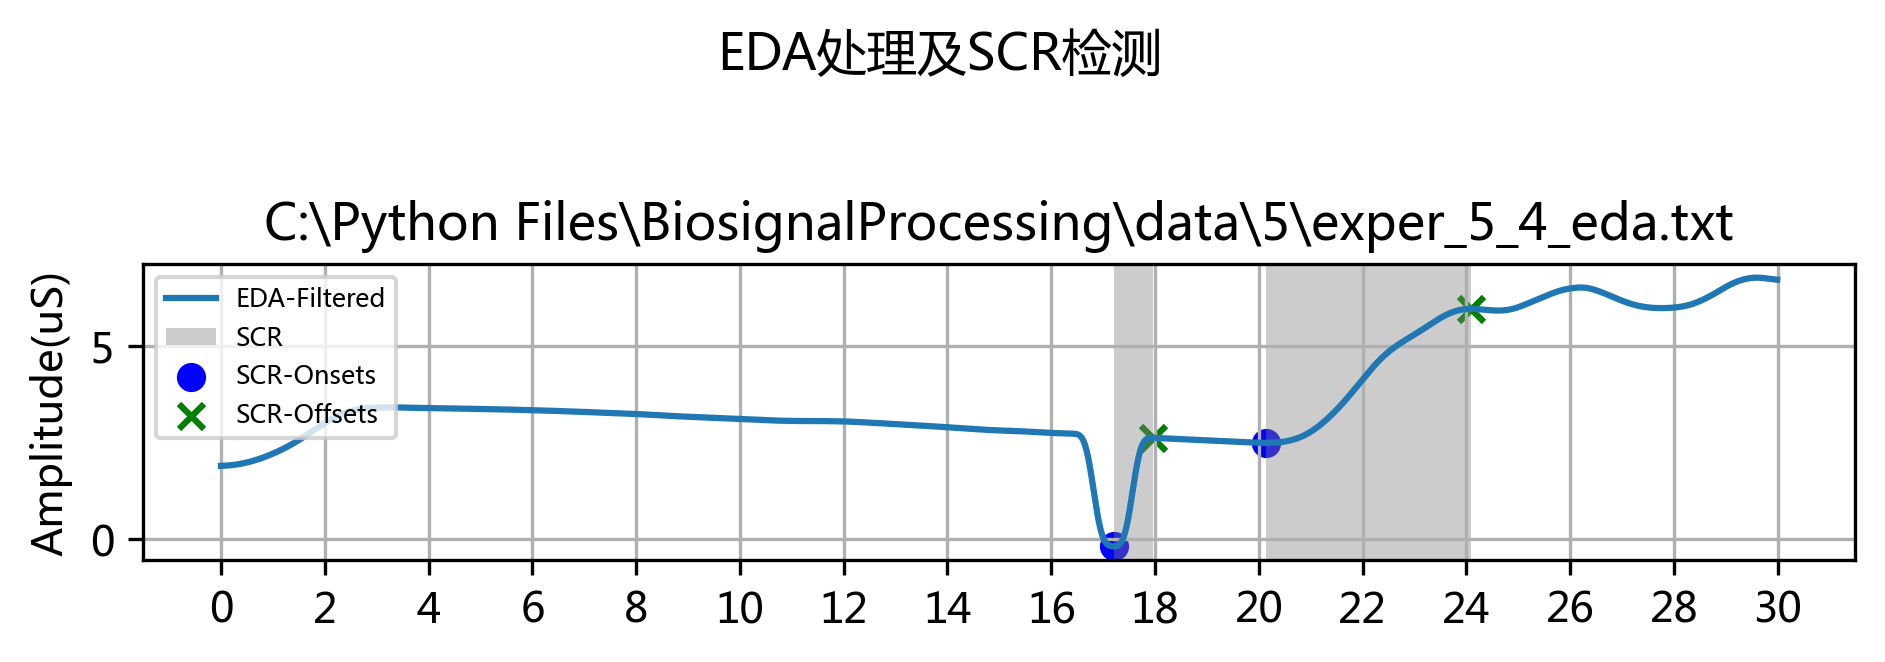
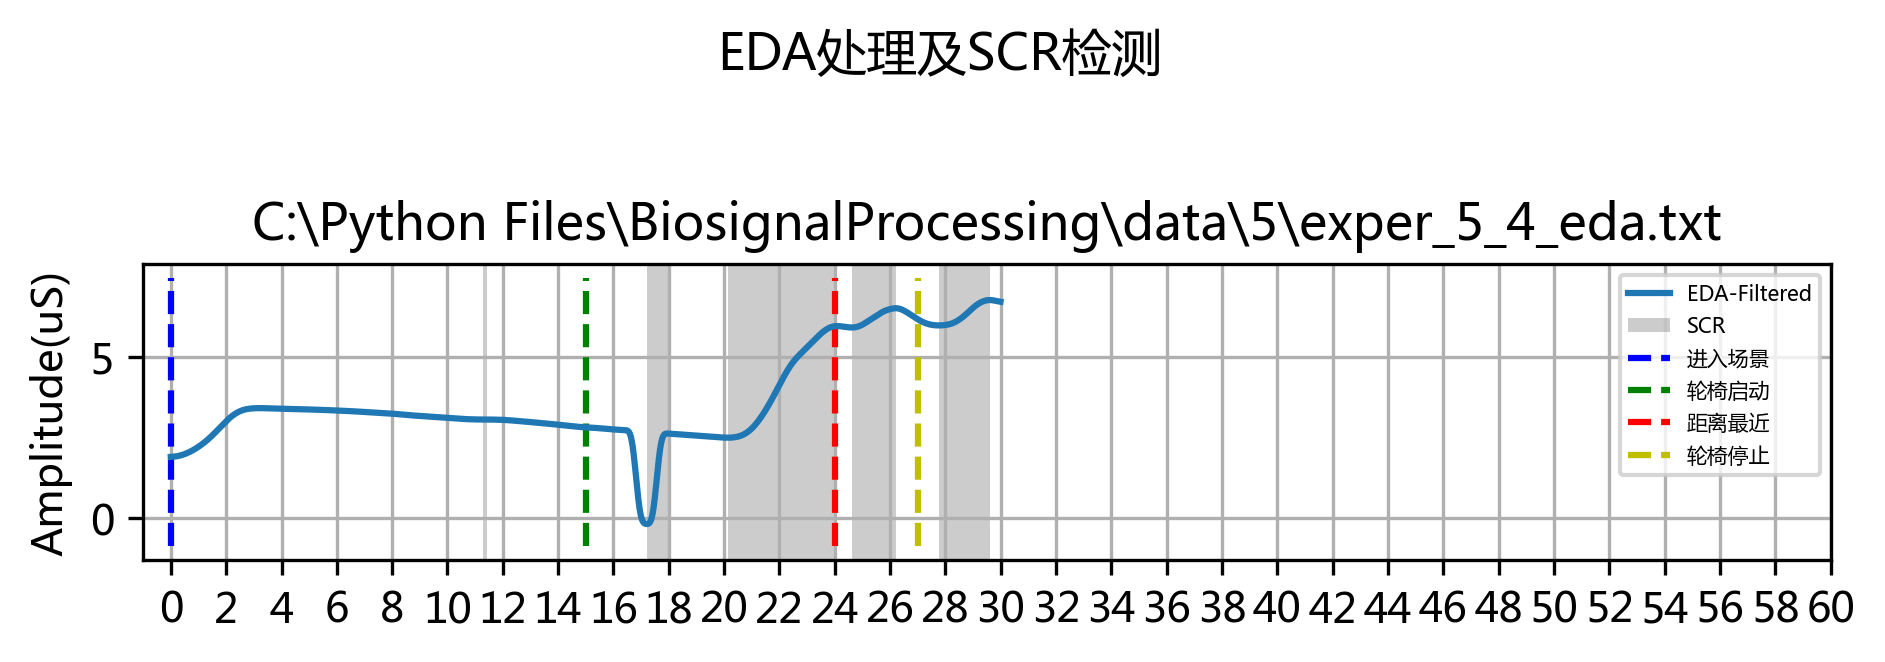
11-27日提交

Changed region(s): [[0.0308, 0.3021, 0.9846, 0.9668]]

diff --git a/eda.py b/eda.py
@@ -302,14 +302,14 @@ def plot_scr_v2(ts: ndarray = None,
     ax1.vlines(ts[0], ymin, ymax, color='b', linestyles="--", linewidth=MINOR_LW, label='进入场景')
     ax1.vlines(ts[15 * sampling_rate], ymin, ymax, color='g', linestyles="--", linewidth=MINOR_LW, label='轮椅启动')
     obs_distance_time = [45, 30, 26, 24]  # 距离障碍物最近时的时间点
-    ax1.vlines(ts[obs_distance_time[exper-1] * sampling_rate], ymin, ymax, color='r', linestyles="--",
+    ax1.vlines(ts[obs_distance_time[exper - 1] * sampling_rate], ymin, ymax, color='r', linestyles="--",
                linewidth=MINOR_LW, label='距离最近')
     wheelchair_stop_time = [55, 36, 30, 27]
     ax1.vlines(ts[wheelchair_stop_time[exper - 1] * sampling_rate], ymin, ymax, color='y', linestyles="--",
                linewidth=MINOR_LW, label='轮椅停止')
 
     ax1.set_ylabel('Amplitude(uS)')
-    ax1.legend(loc="upper right", fontsize=6)
+    ax1.legend(loc="upper right", fontsize=5)
     ax1.grid()
 
     # make layout tight
@@ -324,6 +324,7 @@ def plot_scr_v2(ts: ndarray = None,
             path = root + '_scr.png'
 
         fig.savefig(path, dpi=300, bbox_inches='tight')
+        print("plot_scr处理后的图像已经保存到文件路径{}".format(path))
 
     # show
     if show:
@@ -380,7 +381,7 @@ def eda_process(raw_signal, exper, path=None):
     # scr监测与绘图输出保存
     if path is not None:
         plot_scr_v2(ts=ts, sampling_rate=downsize_rate, filtered=eda_cleaned, onsets=features[0], offsets=features[1],
-                    exper=exper, show=True, path=path)
+                    exper=exper, show=False, path=path)
     else:
         plot_scr_v2(ts=ts, sampling_rate=downsize_rate, filtered=eda_cleaned, onsets=features[0], offsets=features[1],
-                    exper=exper, show=True)
+                    exper=exper, show=False)

diff --git a/main.py b/main.py
@@ -1,5 +1,3 @@
-from typing import List
-
 from biodatacut import *
 from eda import *
 
@@ -44,12 +42,12 @@ if __name__ == "__main__":
                 [578, 714, 879, 989],
                 [283, 475, 630, 739],
                 [447, 483, 623, 712]]
-    # for k in range(5):
-    #     for i in range(4):
-    #         file = filepath[k]
-    #         eda, saveasfilename = eda_signal_cut_and_save(file, k + 1, i + 1, cut_time[k][i])
-    #         eda_process(eda, saveasfilename)
+    for k in range(5):
+        for i in range(4):
+            file = filepath[k]
+            eda, saveasfilename = eda_signal_cut_and_save(file, k+1, i+1, cut_time[k][i], show=False)
+            eda_process(eda, i+1, saveasfilename)
 
-file = filepath[0]
-eda, saveasfilename = eda_signal_cut_and_save(file, 1, 2, cut_time[0][1])
-eda_process(eda, 2, saveasfilename)
+# file = filepath[0]
+# eda, saveasfilename = eda_signal_cut_and_save(file, 1, 2, cut_time[0][1])
+# eda_process(eda, 2, saveasfilename)
